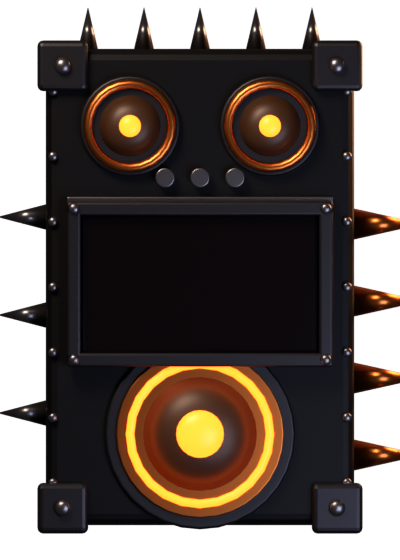
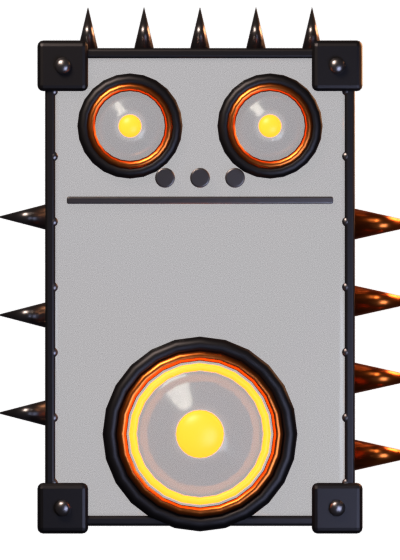
HUD : la main et l'enceinte entières sont les réservoirs (verre fumé), crânes des squelettes ennemis sur la barre de sorts

diff --git a/art/hud/build_hud.py b/art/hud/build_hud.py
@@ -4,7 +4,7 @@
 # Usage (sans interface) :
 #   blender --background --factory-startup --python art/hud/build_hud.py -- [element...]
 #       -> assets/ui/<element>.png (fond transparent) ; pour les réservoirs, aussi <element>_masque.png : la zone où le
-#          jeu dessine le liquide (blanc), cachée par ce qui passe devant (le pouce, le cadre de la vitre...).
+#          jeu dessine le liquide (blanc), sous l'image : la main et l'enceinte sont des récipients de verre fumé.
 #   éléments : main_vie, enceinte_db, barre_sorts, case, cadre, bouton (tous par défaut)
 #
 # Repère : X à droite, Z en haut, la caméra (orthographique) regarde vers +Y ; on modèle face à elle (côté -Y).
@@ -21,6 +21,8 @@ MASK = set()  # objets qui forment le masque du réservoir
 # ---------------------------------------------------------------- scène, matières
 def reset():
     bpy.ops.wm.read_factory_settings(use_empty=True)
+    global _HEAD
+    _HEAD = None
     MATS.clear()
     MASK.clear()
     random.seed(7)
@@ -47,6 +49,34 @@ def mat(name, srgb, metal=0.0, rough=0.5, emit=0.0, emit_col=None, alpha=1.0):
     return m
 
 
+def glass_material():
+    """Verre fumé des récipients (la main, l'enceinte) : presque transparent de face, opaque et brillant sur les
+    bords (Fresnel) ; le jeu dessine le liquide derrière, à travers lui."""
+    m = bpy.data.materials.new("verre")
+    m.use_nodes = True
+    nt = m.node_tree
+    nt.nodes.clear()
+    out = nt.nodes.new("ShaderNodeOutputMaterial")
+    mix = nt.nodes.new("ShaderNodeMixShader")
+    clear = nt.nodes.new("ShaderNodeBsdfTransparent")
+    shell = nt.nodes.new("ShaderNodeBsdfPrincipled")
+    shell.inputs["Base Color"].default_value = (*lin((0.16, 0.14, 0.17)), 1.0)
+    shell.inputs["Roughness"].default_value = 0.12
+    lw = nt.nodes.new("ShaderNodeLayerWeight")
+    lw.inputs["Blend"].default_value = 0.45
+    rng = nt.nodes.new("ShaderNodeMapRange")
+    rng.inputs["From Min"].default_value = 0.0
+    rng.inputs["From Max"].default_value = 1.0
+    rng.inputs["To Min"].default_value = 0.18
+    rng.inputs["To Max"].default_value = 1.0
+    nt.links.new(lw.outputs["Facing"], rng.inputs["Value"])
+    nt.links.new(rng.outputs["Result"], mix.inputs[0])
+    nt.links.new(clear.outputs[0], mix.inputs[1])
+    nt.links.new(shell.outputs[0], mix.inputs[2])
+    nt.links.new(mix.outputs[0], out.inputs[0])
+    MATS["verre"] = m
+
+
 def materials():
     mat("fer", (0.20, 0.19, 0.20), 0.9, 0.42)
     mat("fer_sombre", (0.09, 0.085, 0.09), 0.85, 0.5)
@@ -59,6 +89,7 @@ def materials():
     mat("vitre", (0.05, 0.03, 0.04), 0.2, 0.1)
     mat("cuir", (0.18, 0.11, 0.08), 0.0, 0.6)
     mat("membrane", (0.30, 0.18, 0.10), 0.3, 0.45)
+    glass_material()
     mat("cuivre", (0.85, 0.45, 0.2), 1.0, 0.3)
     mat("fond", (0.07, 0.055, 0.055), 0.4, 0.7)
     mat("masque", (1, 1, 1), emit=1.0, emit_col=(1, 1, 1))
@@ -76,11 +107,43 @@ def obj_done(o, m, bevel=0.0, smooth=True, segs=3):
         b.limit_method = "ANGLE"
     o.data.materials.clear()
     o.data.materials.append(MATS[m])
+    if m == "verre":
+        MASK.add(o.name)  # le récipient : le liquide se voit à travers
     if smooth and o.type == "MESH":
         for p in o.data.polygons:
             p.use_smooth = True
         o.modifiers.new("lisse", "WEIGHTED_NORMAL") if bevel > 0 else None
     return o
+
+
+def fuse(objs, voxel=0.025):
+    """Réunit des pièces en un seul récipient : jointes puis reconstruites en voxels (remaillage), une coque lisse et
+    fermée, sans parois internes (qui se verraient à travers le verre)."""
+    objs = [o for o in objs if o.type == "MESH"]
+    if not objs:
+        return None
+    base = objs[0]
+    for o in objs:  # biseaux et lissages appliqués avant la jointure
+        with bpy.context.temp_override(object=o, active_object=o):
+            for mod in list(o.modifiers):
+                bpy.ops.object.modifier_apply(modifier=mod.name)
+    for o in objs[1:]:
+        MASK.discard(o.name)
+    if len(objs) > 1:
+        with bpy.context.temp_override(active_object=base, selected_editable_objects=objs, selected_objects=objs):
+            bpy.ops.object.join()
+    r = base.modifiers.new("coque", "REMESH")
+    r.mode = "VOXEL"
+    r.voxel_size = voxel
+    r.adaptivity = 0.0
+    with bpy.context.temp_override(object=base, active_object=base):
+        bpy.ops.object.modifier_apply(modifier=r.name)
+    base.data.materials.clear()
+    base.data.materials.append(MATS["verre"])
+    for p in base.data.polygons:
+        p.use_smooth = True
+    MASK.add(base.name)
+    return base
 
 
 def rbox(loc, size, m, bevel=0.04, rot=(0, 0, 0)):
@@ -177,20 +240,64 @@ def rivet(loc, r=0.05, m="fer_clair"):
     return ball(loc, (r, r * 0.6, r), m, 12)
 
 
+_HEAD = None
+SKELETON_BLEND = os.path.join(ROOT, "art", "pnj", "squelette.blend")
+
+
+def skeleton_head():
+    """Tête des squelettes ennemis, découpée dans leur modèle (art/pnj/squelette.blend, au repos, sans armature) :
+    au-dessus du cou, recentrée et ramenée à 1 unité de haut. Modèle commun, recopié à chaque crâne."""
+    global _HEAD
+    if _HEAD is not None:
+        return _HEAD
+    with bpy.data.libraries.load(SKELETON_BLEND, link=False) as (src, dst):
+        dst.objects = [n for n in src.objects]
+    meshes = [o for o in dst.objects if o is not None and o.type == "MESH"]
+    mesh = max(meshes, key=lambda o: len(o.data.vertices))
+    mw = mesh.matrix_world.copy()
+    mesh.parent = None
+    for m in list(mesh.modifiers):
+        mesh.modifiers.remove(m)
+    mesh.data = mesh.data.copy()
+    mesh.data.transform(mw)
+    mesh.matrix_world.identity()
+    for o in dst.objects:
+        if o is not None and o != mesh:
+            bpy.data.objects.remove(o, do_unlink=True)
+    bm = bmesh.new()
+    bm.from_mesh(mesh.data)
+    zs = [v.co.z for v in bm.verts]
+    neck = min(zs) + (max(zs) - min(zs)) * 0.855  # le menton (tête : 15 % du haut) ; en dessous : cou, épaules
+    bmesh.ops.delete(bm, geom=[v for v in bm.verts if v.co.z < neck], context="VERTS")
+    bm.to_mesh(mesh.data)
+    bm.free()
+    mesh.vertex_groups.clear()
+    vs = [v.co for v in mesh.data.vertices]
+    lo = Vector((min(v.x for v in vs), min(v.y for v in vs), min(v.z for v in vs)))
+    hi = Vector((max(v.x for v in vs), max(v.y for v in vs), max(v.z for v in vs)))
+    k = 1.0 / max(hi.z - lo.z, 1e-6)
+    center = (lo + hi) * 0.5
+    mesh.data.transform(Matrix.Scale(k, 4) @ Matrix.Translation(-center))
+    if mesh.name in bpy.context.scene.collection.objects:
+        bpy.context.scene.collection.objects.unlink(mesh)
+    for c in list(mesh.users_collection):
+        c.objects.unlink(mesh)
+    _HEAD = mesh
+    return mesh
+
+
 def skull(loc, s=1.0, horns=False):
-    """Petit crâne de face (os), orbites sombres."""
+    """Crâne de squelette ennemi (vu de face), de `s` unités de haut ; `horns` : cornes de fer recourbées."""
     x, y, z = loc
-    parts = [ball((x, y, z + 0.05 * s), (0.42 * s, 0.36 * s, 0.40 * s), "os"),
-             rbox((x, y - 0.05 * s, z - 0.32 * s), (0.42 * s, 0.3 * s, 0.22 * s), "os", 0.06 * s)]
-    for sx in (-1, 1):
-        parts.append(ball((x + 0.15 * sx * s, y - 0.3 * s, z - 0.02 * s), (0.11 * s, 0.08 * s, 0.12 * s), "orbite"))
-        if horns:
-            parts.append(tube([(x + 0.3 * sx * s, y, z + 0.25 * s), (x + 0.55 * sx * s, y, z + 0.45 * s),
+    head = skeleton_head().copy()  # même maillage, nouvel objet
+    head.location = loc
+    head.scale = (s * 0.9, s * 0.9, s * 0.9)
+    bpy.context.scene.collection.objects.link(head)
+    parts = [head]
+    if horns:
+        for sx in (-1, 1):
+            parts.append(tube([(x + 0.3 * sx * s, y, z + 0.2 * s), (x + 0.55 * sx * s, y, z + 0.42 * s),
                                (x + 0.6 * sx * s, y, z + 0.8 * s)], 0.08 * s, "fer_clair", [1.0, 0.6, 0.05]))
-    parts.append(ball((x, y - 0.33 * s, z - 0.17 * s), (0.05 * s, 0.05 * s, 0.07 * s), "orbite"))
-    for k in range(4):
-        parts.append(rbox((x - 0.12 * s + k * 0.08 * s, y - 0.2 * s, z - 0.4 * s), (0.05 * s, 0.05 * s, 0.07 * s), "os",
-                          0.01))
     return parts
 
 
@@ -240,14 +347,16 @@ def render(name, mask=False):
     bpy.ops.render.render(write_still=True)
     print("[hud]", sc.render.filepath)
     if mask:
-        # Masque : le réservoir en blanc, tout le reste masqué (ce qui passe devant le cache).
+        # Masque : la silhouette du récipient en blanc, le reste caché (le jeu dessine le liquide sous l'image : les
+        # chaînes, bagues et pointes opaques passent devant).
         saved = {}
         for o in sc.objects:
             if o.type != "MESH":
                 continue
             saved[o.name] = [s.material for s in o.material_slots]
+            o.hide_render = o.name not in MASK
             for s in o.material_slots:
-                s.material = MATS["masque"] if o.name in MASK else MATS["cache"]
+                s.material = MATS["masque"]
         sc.cycles.samples = 8
         sc.cycles.use_denoising = False
         sc.render.filepath = os.path.join(OUT, name + "_masque.png")
@@ -255,6 +364,7 @@ def render(name, mask=False):
         print("[hud]", sc.render.filepath)
         for o in sc.objects:
             if o.name in saved:
+                o.hide_render = False
                 for s, m in zip(o.material_slots, saved[o.name]):
                     s.material = m
         sc.cycles.samples = 48
@@ -262,63 +372,42 @@ def render(name, mask=False):
 
 
 # ---------------------------------------------------------------- la main cornue (réservoir de vie)
-def heart_outline(center, k, n):
-    """Contour de cœur (courbe classique), centré en `center` (x, z), taille `k`."""
-    pts = []
-    for i in range(n):
-        t = 2 * math.pi * i / n
-        x = 16 * math.sin(t) ** 3
-        z = 13 * math.cos(t) - 5 * math.cos(2 * t) - 2 * math.cos(3 * t) - math.cos(4 * t)
-        pts.append((center[0] + x * k * 0.5, center[1] + (z + 3) * k * 0.5))
-    return pts
-
-
 def main_vie():
-    """Main du signe des cornes (index et auriculaire levés), en pierre et fer, runes rougeoyantes, chaînes,
-    bracelet à pointes ; la paume creusée d'un cœur de verre : le réservoir de vie."""
+    """Main du signe des cornes (index et auriculaire levés), toute en verre fumé : c'est le réservoir de vie, le jeu la
+    remplit de liquide rouge. Runes rougeoyantes, bagues, chaînes et bracelet à pointes de fer par-dessus."""
     reset()
     # Avant-bras et bracelet clouté
-    tube([(0, 0.1, -2.0), (0, 0.05, -1.1)], 0.62, "pierre", [1.0, 0.95])
+    tube([(0, 0.1, -2.0), (0, 0.05, -1.1)], 0.62, "verre", [1.0, 0.95])
     cyl((0, 0.05, -1.25), 0.72, 0.42, "fer", rot=(0, 0, 0), verts=36, bevel=0.04)
     for k in range(10):
         a = math.pi * (0.1 + 0.8 * k / 9)
         p = Vector((math.cos(a) * 0.72, -math.sin(a) * 0.72 + 0.05, -1.25))
         spike(p, (math.cos(a), -math.sin(a), 0.15), 0.32, 0.07)
     # Paume (bloc arrondi) et dos de la main
-    palm = rbox((0, 0.05, -0.25), (1.45, 0.62, 1.55), "pierre", bevel=0.28)
-    # Réservoir : cœur de verre creusé dans le bas de la paume (le jeu y dessine le liquide), cerclé de fer
-    outline = heart_outline((0, -0.3), 0.055, 48)
-    verts = [Vector((0, -0.29, -0.3))] + [Vector((x, -0.29, z)) for x, z in outline]
-    me = bpy.data.meshes.new("coeur")
-    me.from_pydata(verts, [], [(0, i + 1, (i + 1) % len(outline) + 1) for i in range(len(outline))])
-    glass = bpy.data.objects.new("coeur", me)
-    bpy.context.scene.collection.objects.link(glass)
-    obj_done(glass, "vitre", smooth=False)
-    MASK.add(glass.name)
-    tube([(x, -0.31, z) for x, z in outline] + [(outline[0][0], -0.31, outline[0][1])], 0.045, "fer_clair")
+    palm = rbox((0, 0.05, -0.25), (1.45, 0.62, 1.55), "verre", bevel=0.28)
     # Doigts : index et auriculaire levés (cornes), majeur et annulaire repliés, pouce en travers
     def finger(x, z0, length, r, raised=True, lean=0.0):
         if raised:
             pts = [(x, 0.05, z0), (x + lean * 0.3, 0.02, z0 + length * 0.35), (x + lean * 0.7, 0.0, z0 + length * 0.7),
                    (x + lean, 0.02, z0 + length)]
-            o = tube(pts, r, "pierre", [1.0, 0.95, 0.88, 0.75])
+            o = tube(pts, r, "verre", [1.0, 0.95, 0.88, 0.75])
             for k, f in enumerate((0.33, 0.66)):
                 p = Vector(pts[0]).lerp(Vector(pts[3]), f)
                 rbox((p.x, p.y - r * 0.85, p.z), (r * 1.2, 0.04, 0.05), "rune", 0.01)  # runes sur les phalanges
                 torus((p.x, p.y, p.z - 0.05), r * 1.08, 0.025, "fer_clair", rot=(0, 0, 0))
-            ball((x + lean, 0.0, z0 + length + r * 0.6), (r * 0.8, r * 0.8, r * 0.7), "pierre")
+            ball((x + lean, 0.0, z0 + length + r * 0.6), (r * 0.8, r * 0.8, r * 0.7), "verre")
             return o
         pts = [(x, 0.05, z0), (x, -0.25, z0 + 0.25), (x, -0.45, z0 + 0.0), (x, -0.42, z0 - 0.25)]
-        return tube(pts, r, "pierre", [1.0, 1.0, 0.95, 0.9])
+        return tube(pts, r, "verre", [1.0, 1.0, 0.95, 0.9])
     finger(-0.52, 0.45, 1.55, 0.2, True, -0.12)
     finger(0.55, 0.45, 1.25, 0.18, True, 0.12)
     finger(-0.18, 0.45, 0, 0.21, False)
     finger(0.18, 0.45, 0, 0.2, False)
     # Pouce replié devant le majeur et l'annulaire
-    tube([(0.85, -0.1, 0.05), (0.62, -0.42, 0.42), (0.2, -0.62, 0.62), (-0.18, -0.62, 0.62)], 0.19, "pierre",
+    tube([(0.85, -0.1, 0.05), (0.62, -0.42, 0.42), (0.2, -0.62, 0.62), (-0.18, -0.62, 0.62)], 0.19, "verre",
          [1.0, 0.95, 0.9, 0.85])
     rbox((0.3, -0.8, 0.6), (0.22, 0.04, 0.05), "rune", 0.01, rot=(0, 0.3, 0))
-    # Runes de la paume (autour du cœur)
+    # Runes de la paume
     for (x, z, a) in ((-0.62, -0.85, 0.5), (0.62, -0.85, -0.5), (-0.62, 0.15, -0.3), (0.62, 0.15, 0.3)):
         rbox((x, -0.29, z), (0.05, 0.03, 0.3), "rune", 0.01, rot=(0, a, 0))
     # Chaînes enroulées autour du poignet et des doigts
@@ -326,17 +415,19 @@ def main_vie():
     # Pointes sur le dos de la main et les phalanges
     for (x, z, dx) in ((-0.75, 0.2, -1), (0.75, 0.0, 1), (-0.75, -0.5, -1), (0.75, -0.6, 1)):
         spike((x, 0.05, z), (dx, 0.1, 0.25), 0.3, 0.07)
+    fuse([o for o in bpy.context.scene.objects if o.name in MASK])  # un seul récipient, sans parois internes
     setup_render(420, 560, (0, 0.05), 4.2)
     render("main_vie", mask=True)
 
 
 # ---------------------------------------------------------------- l'enceinte (réservoir de décibels)
 def enceinte_db():
-    """Baffle de scène en fer clouté : deux tweeters et leurs boutons en haut, une cuve de verre au milieu (le
-    réservoir de dB, liquide violet dessiné par le jeu), le gros haut-parleur orangé en bas ; pointes sur le côté."""
+    """Baffle de scène tout en verre fumé : c'est le réservoir de décibels, le jeu le remplit de liquide violet.
+    Coins renforcés, rivets, cerclages des haut-parleurs, boutons et pointes de fer et de cuivre par-dessus ; les
+    membranes des haut-parleurs sont en verre elles aussi (le liquide se voit à travers)."""
     reset()
     W, H, D = 2.2, 3.4, 1.2
-    rbox((0, 0.3, 0), (W, D, H), "fer_sombre", bevel=0.08)
+    rbox((0, 0.3, 0), (W, D, H), "verre", bevel=0.08)
     # Coins renforcés et rivets
     for sx in (-1, 1):
         for sz in (-1, 1):
@@ -346,31 +437,26 @@ def enceinte_db():
         z = -H / 2 + 0.3 + k * (H - 0.6) / 6
         for sx in (-1, 1):
             rivet((sx * (W / 2 - 0.05), -0.32, z), 0.035)
-    # Rangée du haut : deux tweeters et trois boutons
+    # Arêtes de fer (le verre est serti dans un cadre)
     for sx in (-1, 1):
-        cyl((sx * 0.5, -0.32, 1.15), 0.36, 0.08, "fer", bevel=0.02)
-        cyl((sx * 0.5, -0.38, 1.15), 0.27, 0.1, "membrane", r2=0.1, bevel=0.0)
+        rbox((sx * (W / 2 - 0.03), -0.3, 0), (0.07, 0.08, H - 0.5), "fer", 0.02)
+    for sz in (-1, 1):
+        rbox((0, -0.3, sz * (H / 2 - 0.03)), (W - 0.5, 0.08, 0.07), "fer", 0.02)
+    # Rangée du haut : deux tweeters (cerclage de fer et de cuivre, membrane de verre) et trois boutons
+    for sx in (-1, 1):
+        torus((sx * 0.5, -0.34, 1.15), 0.33, 0.045, "fer")
+        torus((sx * 0.5, -0.37, 1.15), 0.28, 0.03, "cuivre")
+        cyl((sx * 0.5, -0.36, 1.15), 0.27, 0.1, "verre", r2=0.1, bevel=0.0)
         ball((sx * 0.5, -0.42, 1.15), (0.08, 0.05, 0.08), "braise")
-        torus((sx * 0.5, -0.37, 1.15), 0.3, 0.035, "cuivre")
     for k in range(3):
         cyl((-0.25 + k * 0.25, -0.33, 0.78), 0.07, 0.1, "fer_clair", bevel=0.01)
     rbox((0, -0.32, 0.62), (1.9, 0.06, 0.05), "fer_clair", 0.01)
-    # Cuve de verre (réservoir) entre deux bandeaux
-    tank = rbox((0, -0.34, 0.02), (1.7, 0.1, 1.0), "vitre", bevel=0.03)
-    MASK.add(tank.name)
-    # cadre de la vitre (devant la cuve)
-    for (loc, size) in (((0, -0.4, 0.56), (1.9, 0.12, 0.1)), ((0, -0.4, -0.52), (1.9, 0.12, 0.1)),
-                        ((-0.9, -0.4, 0.02), (0.1, 0.12, 1.15)), ((0.9, -0.4, 0.02), (0.1, 0.12, 1.15))):
-        rbox(loc, size, "fer", 0.02)
-    for sx in (-1, 1):
-        for sz in (-1, 1):
-            rivet((sx * 0.9, -0.47, 0.02 + sz * 0.54), 0.04)
-    # Gros haut-parleur
-    cyl((0, -0.31, -1.05), 0.68, 0.08, "fer", bevel=0.02)
-    cyl((0, -0.34, -1.05), 0.6, 0.08, "cuivre", bevel=0.01)
-    cyl((0, -0.4, -1.05), 0.55, 0.18, "membrane", r2=0.18, bevel=0.0)
+    # Gros haut-parleur : cerclages, membrane de verre, cache-noyau rougeoyant
+    torus((0, -0.33, -1.05), 0.64, 0.055, "fer")
+    torus((0, -0.37, -1.05), 0.56, 0.035, "cuivre")
+    torus((0, -0.4, -1.05), 0.48, 0.025, "braise")
+    cyl((0, -0.36, -1.05), 0.55, 0.18, "verre", r2=0.18, bevel=0.0)
     ball((0, -0.5, -1.05), (0.17, 0.08, 0.17), "braise")
-    torus((0, -0.39, -1.05), 0.5, 0.03, "braise")
     # Pointes sur le flanc droit, comme sur la planche
     for k in range(4):
         spike((W / 2, 0.0, -1.2 + k * 0.55), (1, -0.15, 0), 0.5, 0.11, "cuivre")
@@ -379,9 +465,9 @@ def enceinte_db():
     # Pointes sur le dessus
     for k in range(5):
         spike((-0.8 + k * 0.4, 0.3, H / 2), (0, -0.1, 1), 0.3, 0.07)
+    fuse([o for o in bpy.context.scene.objects if o.name in MASK])  # un seul récipient, sans parois internes
     setup_render(400, 560, (0.0, 0.05), 4.0)
     render("enceinte_db", mask=True)
-
 
 
 # ---------------------------------------------------------------- cadres et boutons

diff --git a/docs/HUD.md b/docs/HUD.md
@@ -13,15 +13,15 @@ blender --background --factory-startup --python art/hud/build_hud.py -- [element
 
 | Élément | Rôle |
 |---|---|
-| `main_vie` (+ `_masque`) | main du signe des cornes, en pierre, runes et chaînes ; cœur de verre dans la paume = **réservoir de vie** (bas à gauche) |
-| `enceinte_db` (+ `_masque`) | baffle de scène clouté, tweeters et haut-parleur orangés ; cuve de verre = **réservoir de décibels** (bas à droite) |
-| `barre_sorts` | cadre de la barre de sorts : crâne cornu au centre, crânes aux bouts, pointes, chaînes pendantes |
+| `main_vie` (+ `_masque`) | main du signe des cornes toute en verre fumé = **réservoir de vie** (bas à gauche) ; runes, bagues, chaînes et bracelet à pointes par-dessus |
+| `enceinte_db` (+ `_masque`) | baffle de scène tout en verre fumé = **réservoir de décibels** (bas à droite) ; coins, cerclages, boutons et pointes de métal |
+| `barre_sorts` | cadre de la barre de sorts : crânes des squelettes ennemis (tête découpée dans art/pnj/squelette.blend), cornu au centre, pointes, chaînes pendantes |
 | `case` | cadre de fer d'une case de sort |
 | `cadre` | panneau des menus, découpé en 9 parties (coins de 48 px) |
 | `bouton` | bouton des menus, découpé en 9 parties (bords de 18 px) |
 
-Le **masque** d'un réservoir est blanc là où se voit le liquide, transparent ailleurs (ce qui passe devant, comme
-le cerclage de fer, le cache).
+Le **masque** d'un réservoir est la silhouette du récipient (pièces de verre réunies et remaillées en une seule
+coque) ; le jeu dessine le liquide dans cette silhouette, puis l'image de verre par-dessus.
 
 ## Dans le jeu
 
